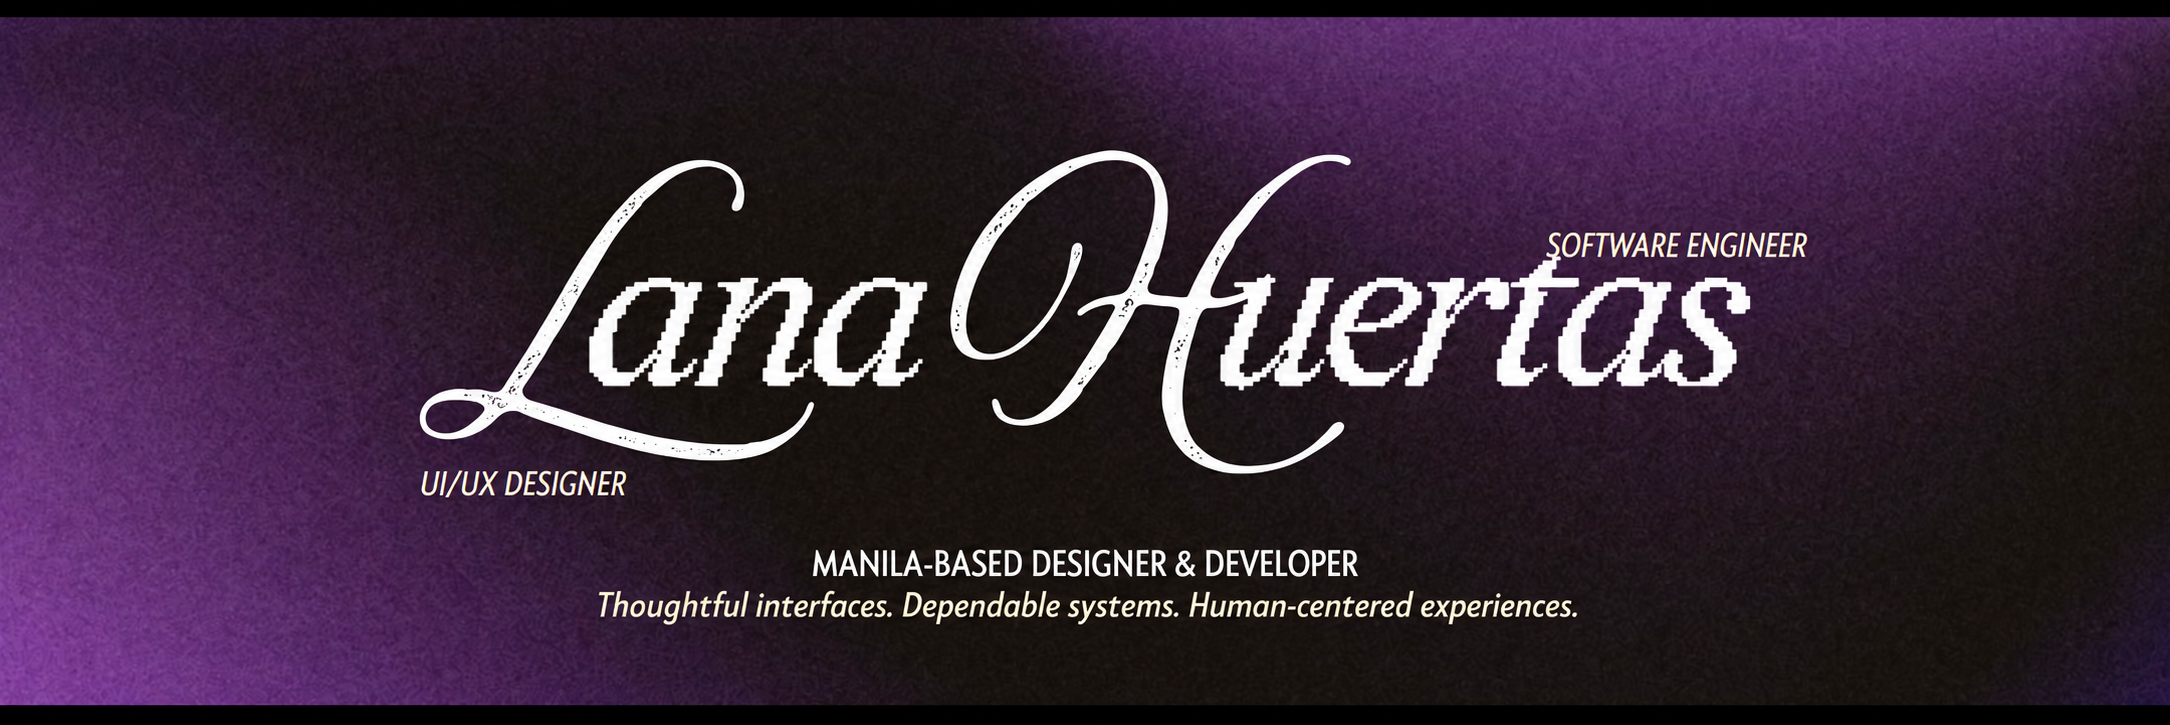
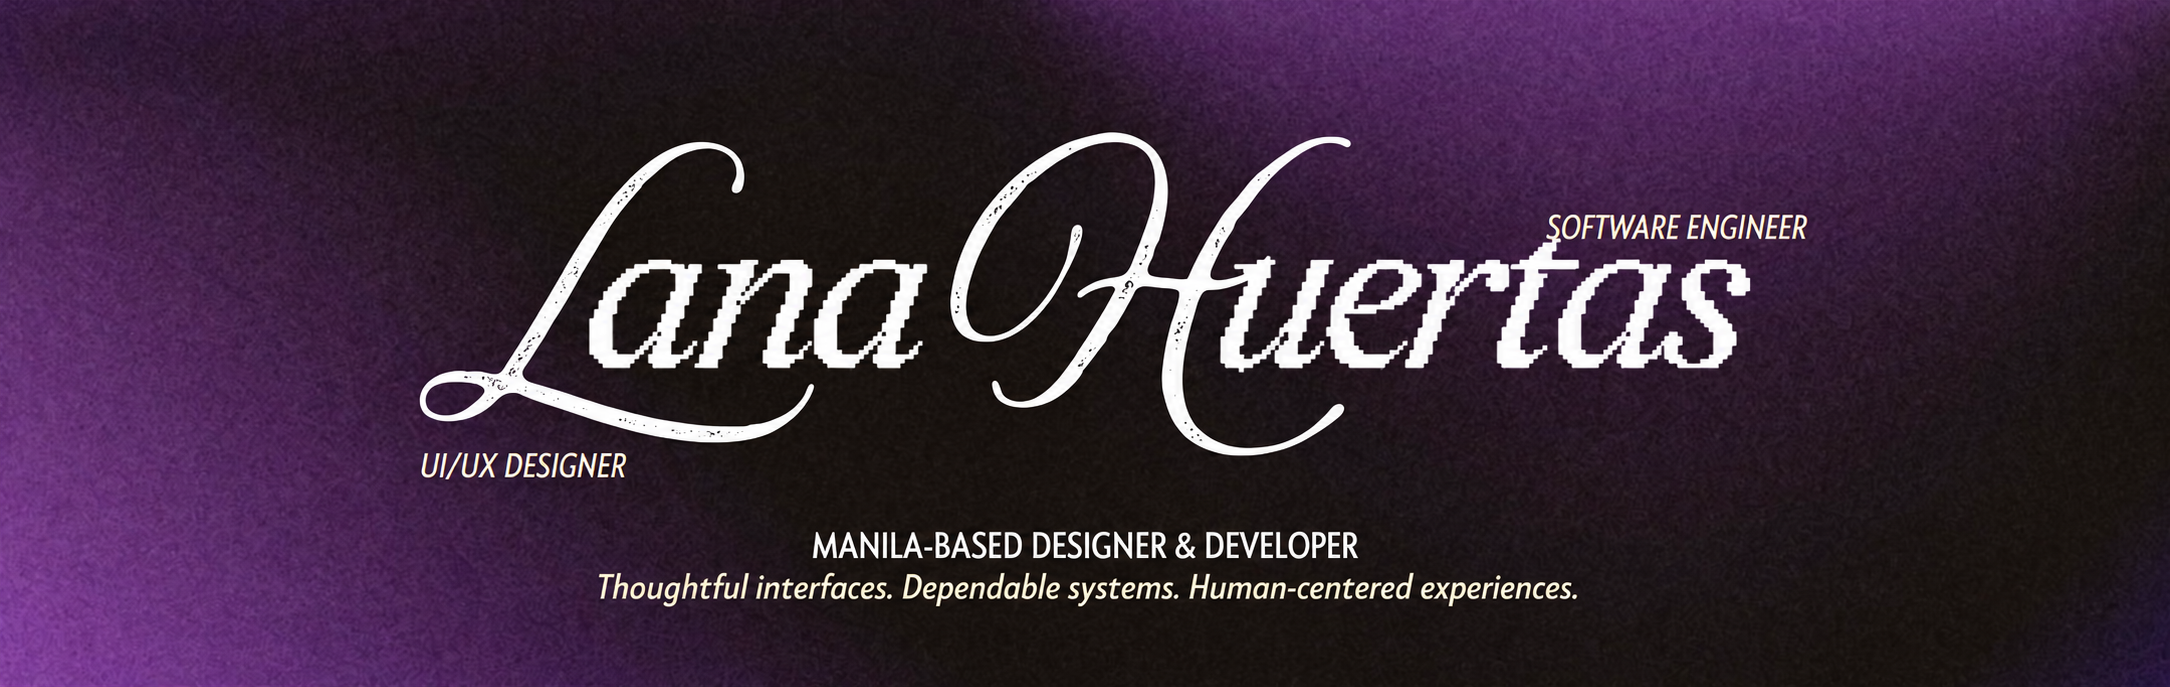
Unify profile palette with the header art and add live, interactive sections
The header image had black letterbox bars top and bottom; cropped to the
artwork so it bleeds edge to edge.

Colours now come from the header itself (plum #673378 / #8B45A3 / #BF7FD9 on
warm near-black #190F1C) instead of the bluer Tailwind violets the badges and
footer were using, which read as a different purple next to the banner.

Added movement and interactivity that does not depend on flaky third parties:
an animated typing tagline, live top-language and last-commit badges per
pinned project, a profile view counter, and collapsible deep-dives for each
project plus work history. The footer SVG is now animated with a sweeping
sheen and drifting accents, and respects prefers-reduced-motion.

Deliberately avoided github-readme-stats, streak-stats, the activity graph and
the trophy card: all four are currently returning 503s, API errors or 402s and
would render as broken boxes.

diff --git a/README.md b/README.md
@@ -4,21 +4,24 @@
   <img src="./assets/lana-profile-header-purple.png" alt="Lana Huertas — UI/UX Designer and Software Engineer" width="100%" />
 </a>
 
-<br />
-
-### I design thoughtful interfaces and build the systems behind them.
-
-Manila, Philippines · UI/UX Design Intern · Computer Science student
-
-<br />
+<a href="https://portfolio-lanahuertas.vercel.app">
+  <img src="https://readme-typing-svg.demolab.com?font=Fira+Code&weight=600&size=20&pause=1200&duration=3200&color=BF7FD9&center=true&vCenter=true&width=820&height=46&lines=I+design+thoughtful+interfaces...;...and+build+the+systems+behind+them.;UI%2FUX+Design+Intern+%40+Eden+Holdings+Philippines;BS+Computer+Science+%E2%80%94+Software+Engineering" alt="I design thoughtful interfaces and build the systems behind them" />
+</a>
 
 <a href="https://portfolio-lanahuertas.vercel.app">
-  <img src="https://img.shields.io/badge/VIEW_MY_DESIGN_PORTFOLIO-7C3AED?style=for-the-badge&logo=vercel&logoColor=white" alt="View Lana's design portfolio" />
+  <img src="https://img.shields.io/badge/VIEW_MY_DESIGN_PORTFOLIO-673378?style=for-the-badge&logo=vercel&logoColor=E8DCEF&labelColor=190F1C" alt="View Lana's design portfolio" />
 </a>
 &nbsp;
 <a href="mailto:lanadenisehuertas@gmail.com">
-  <img src="https://img.shields.io/badge/LET'S_TALK-EC4899?style=for-the-badge&logo=gmail&logoColor=white" alt="Email Lana" />
+  <img src="https://img.shields.io/badge/LET'S_TALK-8B45A3?style=for-the-badge&logo=gmail&logoColor=E8DCEF&labelColor=190F1C" alt="Email Lana" />
 </a>
+
+<br /><br />
+
+<img src="https://img.shields.io/badge/MANILA,_PHILIPPINES-190F1C?style=flat-square&logo=googlemaps&logoColor=BF7FD9" alt="Based in Manila, Philippines" />
+<img src="https://img.shields.io/badge/UI%2FUX_DESIGN_INTERN-190F1C?style=flat-square&logo=figma&logoColor=BF7FD9" alt="UI/UX Design Intern" />
+<img src="https://img.shields.io/badge/CS_STUDENT_'27-190F1C?style=flat-square&logo=bookstack&logoColor=BF7FD9" alt="Computer Science student, class of 2027" />
+<img src="https://komarev.com/ghpvc/?username=lanadenisehuertas&color=673378&style=flat-square&label=PROFILE+VIEWS" alt="Profile views" />
 
 </div>
 
@@ -44,6 +47,22 @@ A Windows application that supports clinician-guided screening through real-time
 
 `Python` `Electron` `Supabase` `Statistical Analysis`
 
+<img src="https://img.shields.io/github/languages/top/lanadenisehuertas/psyclick?style=flat-square&color=673378&labelColor=190F1C" alt="Top language" />
+<img src="https://img.shields.io/github/last-commit/lanadenisehuertas/psyclick?style=flat-square&color=8B45A3&labelColor=190F1C&label=updated" alt="Last commit" />
+
+<details>
+<summary><b>What's under the hood →</b></summary>
+
+<br />
+
+- An **8-feature psychomotor extraction pipeline** — keystroke flight and dwell time, mouse velocity, jerk, and path entropy.
+- A **Hotelling's T² multivariate anomaly detection engine**, compared against an EWMA-adaptive personal baseline.
+- **Supabase** cloud storage running alongside a parallel offline-mode data layer.
+- The Python backend packaged as a **standalone executable** for distribution.
+- Directed a **4-person cross-functional team** through design, backend, and research workstreams to thesis defense.
+
+</details>
+
 </td>
 <td width="50%" valign="top">
 
@@ -55,7 +74,23 @@ An iPhone-ready progressive web app that adapts workouts, nutrition, recovery, a
 
 `TypeScript` `React` `PWA` `IndexedDB` `UI/UX`
 
-[Explore the project →](https://github.com/lanadenisehuertas/bloom)
+<img src="https://img.shields.io/github/languages/top/lanadenisehuertas/bloom?style=flat-square&color=673378&labelColor=190F1C" alt="Top language" />
+<img src="https://img.shields.io/github/last-commit/lanadenisehuertas/bloom?style=flat-square&color=8B45A3&labelColor=190F1C&label=updated" alt="Last commit" />
+
+<details>
+<summary><b>What's under the hood →</b></summary>
+
+<br />
+
+- A **real calendar-based cycle tracker** that learns actual cycle *and* period length from logged days, instead of assuming a textbook 28-day cycle.
+- Workout intensity that **adapts to the detected phase** — easing during menstruation, encouraging progressive overload in the highest-capacity week.
+- A nutrition engine with **live calorie logging**, a budget-conscious Filipino meal bank, and a grocery list generator.
+- **100% offline and local** — IndexedDB via Dexie, no backend, no account, no data ever leaving the device.
+- Behaviour design throughout: a "Minimum Viable Day" escape hatch, grace-day streaks, and automatic downshifts after a missed week.
+
+</details>
+
+[Explore the project →](https://github.com/lanadenisehuertas/bloom) · [Live app ↗](https://bloom-liart-delta.vercel.app)
 
 </td>
 </tr>
@@ -105,7 +140,25 @@ focus:
 - **Elite Scholar and DOST Scholar** — FEU Institute of Technology
 - Former **Creatives Committee Head** — Student Coordinating Council and ACM Chapter
 
+<details>
+<summary><b>Where I've worked →</b></summary>
+
+<br />
+
+**UI/UX Design Intern** · Eden Holdings Philippines Inc. — Makati · *Aug 2026 – Present*
+Wireframes, user flows, and interactive Figma prototypes for web and mobile. Maintains institutional design systems and UI component libraries alongside cross-functional development teams, and folds AI tooling into ideation and user research to move from stakeholder requirements to accessible, high-quality experiences faster.
+
+**Freelance Graphic Designer & Video Editor** · Remote — Philippines · *2023 – Aug 2026*
+Branded visual assets and marketing material for clients across several industries, with close attention to typography, hierarchy, and layout consistency.
+
+**Creatives Committee Head** · Student Coordinating Council & ACM Chapter, FEU Tech · *Sep 2023 – Jul 2025*
+Led creative teams and coordinated production timelines across two organisations for campus-wide events and interschool competitions.
+
+</details>
+
 <div align="center">
+
+<br />
 
 <picture>
   <source media="(prefers-color-scheme: dark)" srcset="https://raw.githubusercontent.com/lanadenisehuertas/lanadenisehuertas/output/github-contribution-grid-snake-dark.svg" />
